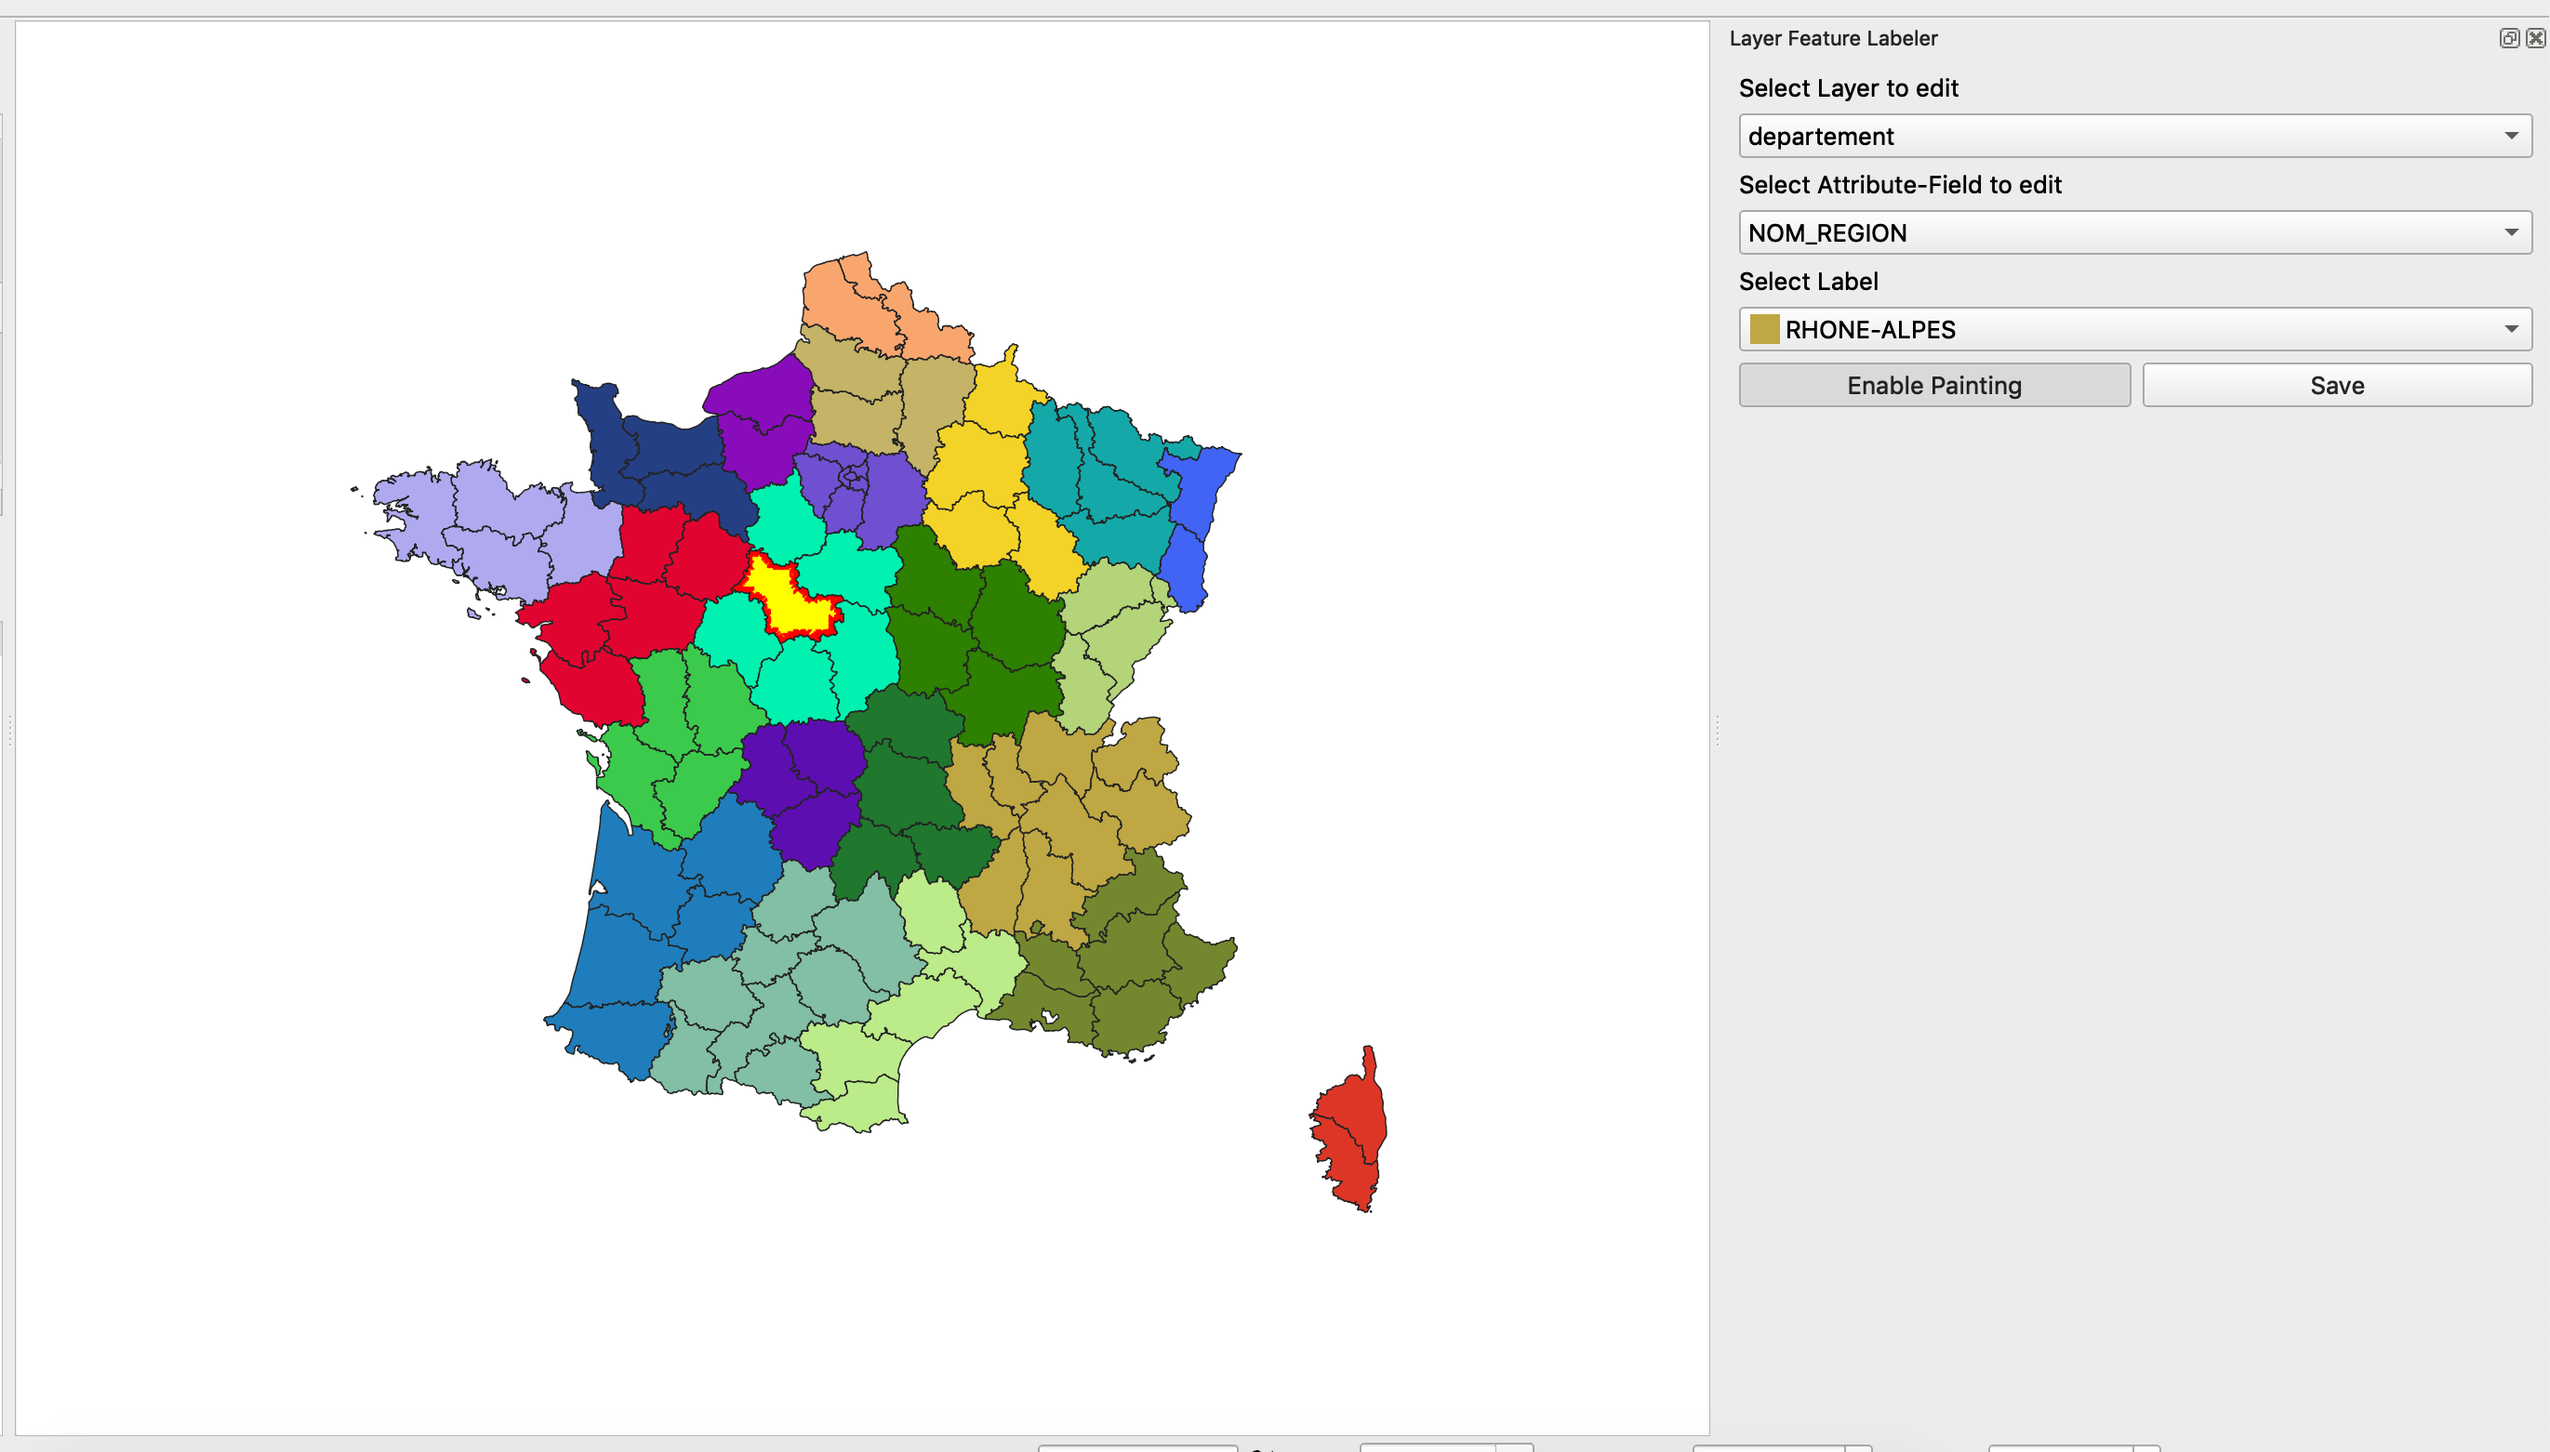
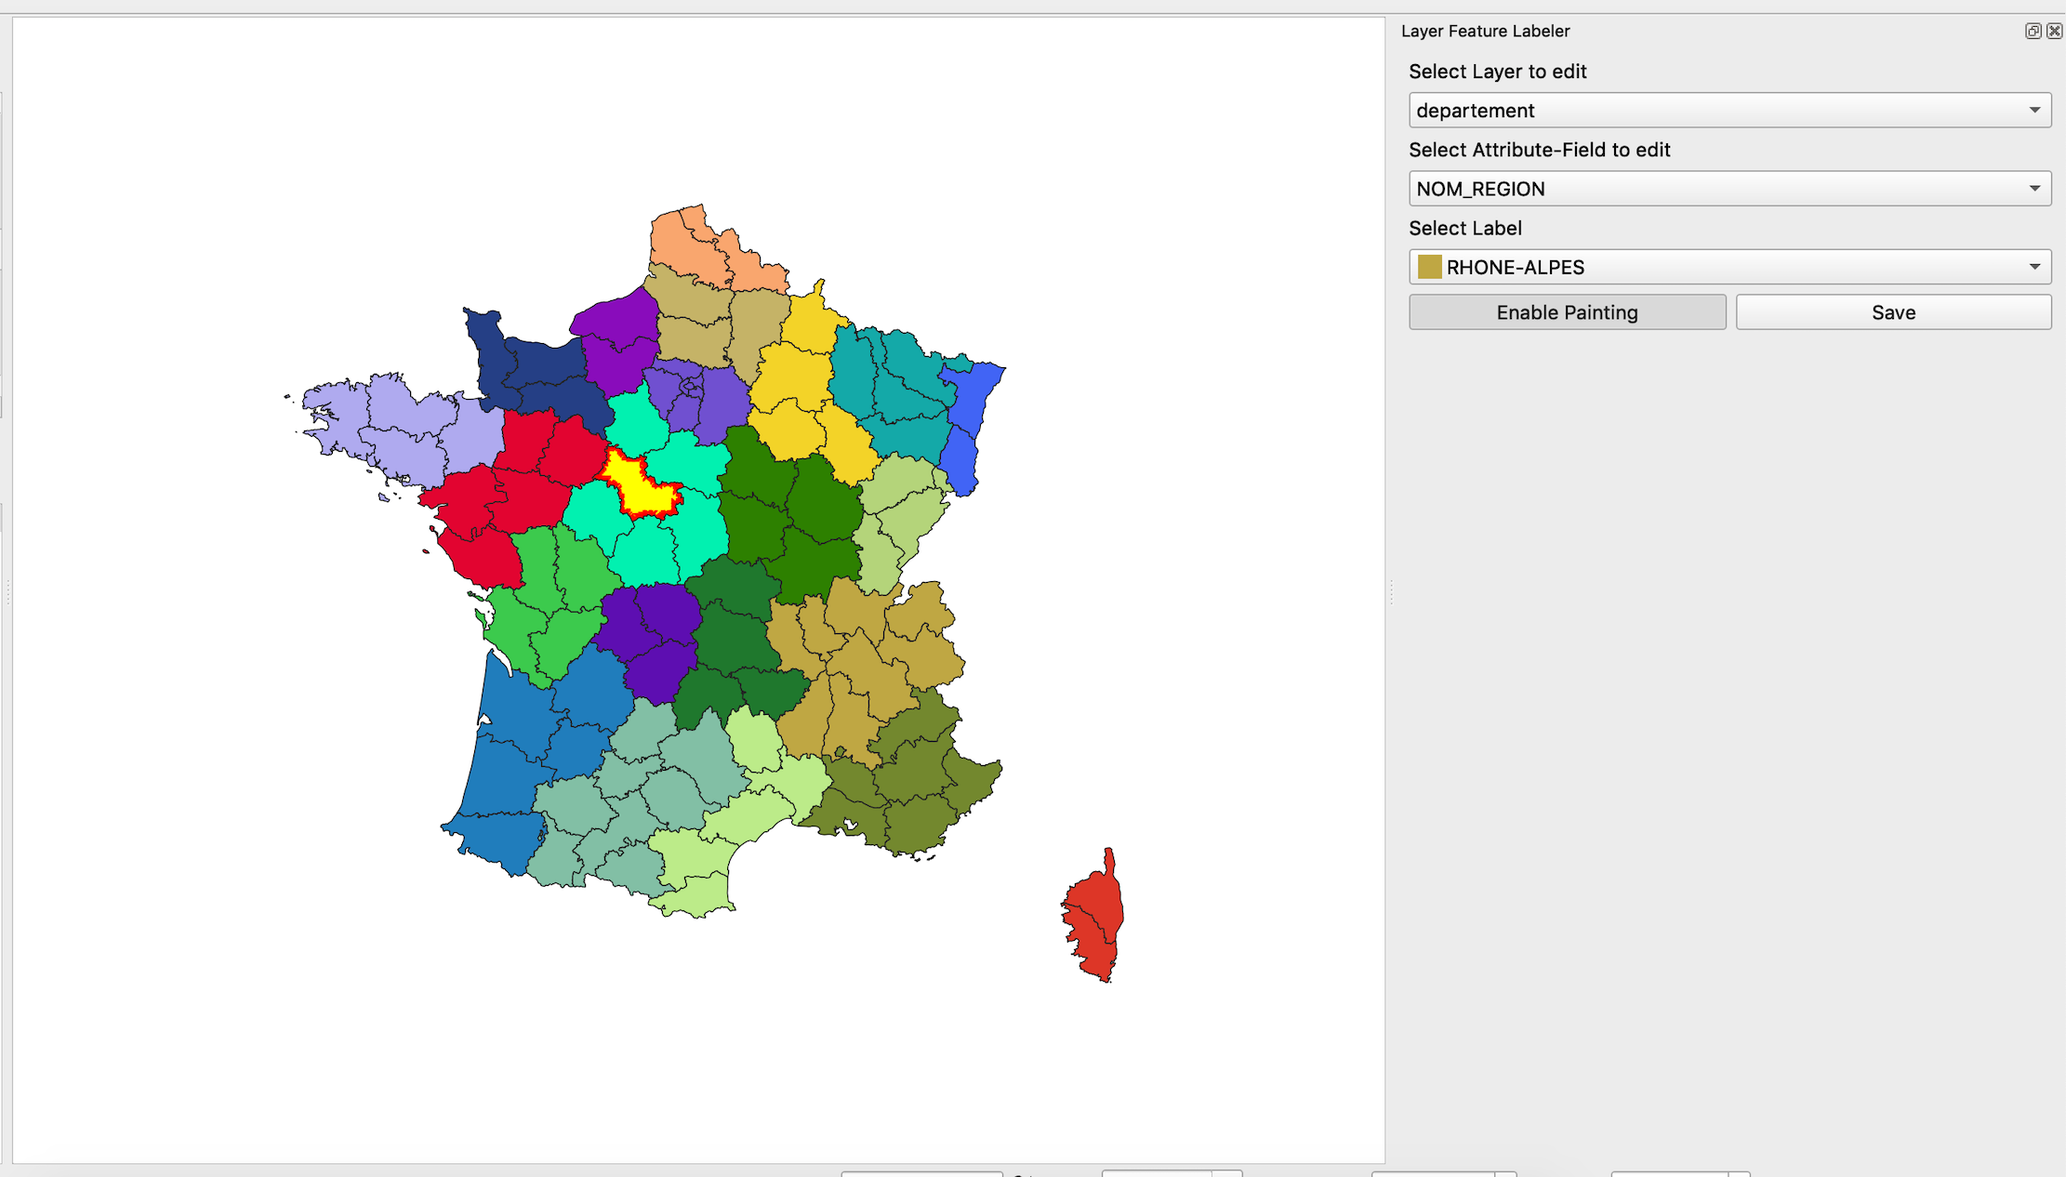
adding images for ReadMe

Changed region(s): [[0.3105, 0.4005, 0.3416, 0.4313], [0.1863, 0.4005, 0.2174, 0.4313], [0.1553, 0.3697, 0.1863, 0.4005]]

diff --git a/README.md b/README.md
@@ -12,13 +12,13 @@ A QGIS plugin (for QGIS 2.xx and 3.xx) to label vector layer features.
 
 4. Navigate to the ZIP file you just downloaded and open it
 
-5. The plugin is ready to use and can be opened by clicking on the _hand icon_
+5. The plugin is ready to use and can be opened by clicking on its icon
 ![alt text](https://raw.githubusercontent.com/raphaelsulzer/LayerFeatureLabeler/master/icons/select2.png?token=AEDVDXFNOV6XXTJ6CHPMAZC5QAAME)
+or via _Plugins > VectorLayerTool > LayerFeatureLabeler_
 
 ## How to use the plugin
 
-
-
+![alt text](https://raw.githubusercontent.com/raphaelsulzer/LayerFeatureLabeler/master/GUI.png?token=AEDVDXGNJCMZYZAL4D3XXSC5QAB7I)
 
 Simply select a layer, an attribute-field and a label. 
 To apply the label to a feature, first click on _Enable Painting_ and paint
